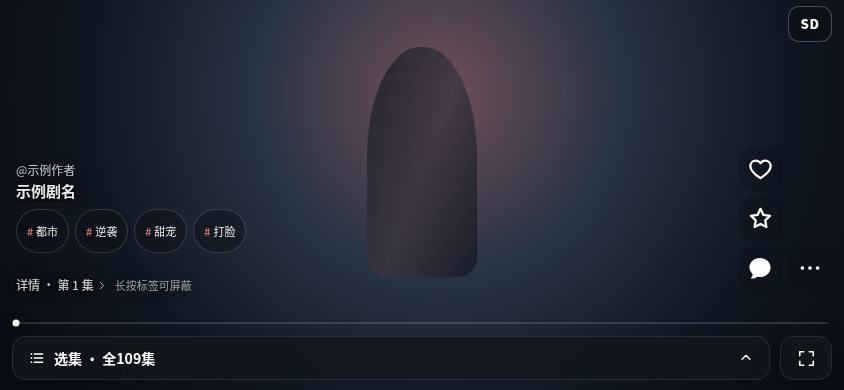
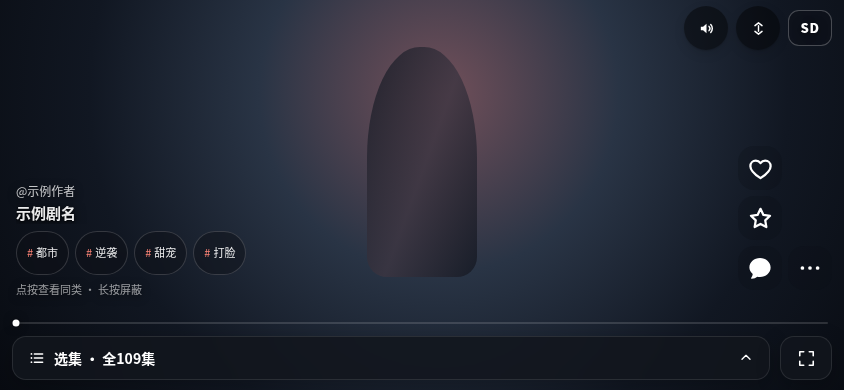
fix: consolidate mobile playback control entry points

diff --git a/src/features/feed/FeedPlayerShellChrome.tsx b/src/features/feed/FeedPlayerShellChrome.tsx
@@ -10,7 +10,7 @@ import type { FeedMeta } from "./useFeedActions";
 import type { FeedPanel } from "./useFeedViewport";
 import { PlaybackSettingsPanel } from "./PlaybackSettingsPanel";
 import {
-  IBoltF, IClose, ICompress, ILockF, IPauseF, IPlayF, IVertSwap,
+  IBoltF, IClose, ICompress, IPauseF, IPlayF, IVertSwap, IVol, IVolMute,
 } from "../../shared/ui/icons";
 
 const VideoDetailsPanel = lazy(() => import("./VideoDetailsPanel"));
@@ -88,7 +88,6 @@ type Props = {
   exitFs: () => void;
   onFollow: () => Promise<void>;
   openTag: (tag: string) => void;
-  openTagMenu: (selected?: string[]) => void;
   closePanels: () => void;
   pushPage: (page: PageInput) => void;
   toast: (msg: string, icon?: Toast["icon"]) => void;
@@ -103,7 +102,7 @@ export function FeedPlayerShellChrome({
   follows, followPending, post, articleHtml, panel, setPanel,
   scrub, barPct, onBarDown, onBarMove, onBarUp,
   pickEp, go, togglePip, lockControls, toggleFull, exitFs,
-  onFollow, openTag, openTagMenu, closePanels, pushPage, toast,
+  onFollow, openTag, closePanels, pushPage, toast,
 }: Omit<Props, "clean">) {
   const liveMeta = { ...meta, like: likeCount, collect: collectCount };
   const landscapeStage = rotated || vpLandscape;
@@ -115,7 +114,7 @@ export function FeedPlayerShellChrome({
   const detailBody = (onClose?: () => void) => (
     <VideoDetailsPanel meta={liveMeta} videoId={curId} episodeCount={episodes.length}
       related={related} following={follows.includes(meta.authorId)} followPending={followPending}
-      onFollow={() => void onFollow()} onTag={openTag} onClose={onClose} onPreferences={() => openTagMenu()}
+      onFollow={() => void onFollow()} onTag={openTag} onClose={onClose}
       onAuthor={() => { if (meta.authorId > 0) { closePanels(); pushPage({ kind: "user", id: meta.authorId, name: meta.author }); } }}
       onRelated={(video, visible) => { closePanels(); pushPage({ kind: "feed", videoIds: visible.map(item => item.id), index: visible.findIndex(item => item.id === video.id), title: "相关推荐" }); }} />
   );
@@ -281,10 +280,6 @@ export function FeedPlayerShellChrome({
               rate={rate} onRate={(value) => { setRate(value); videoRef.current?.rate(value); }}
               preferHevc={preferHevc} onPreferHevc={setPreferHevc}
               portraitFit={portraitFit} onPortraitFit={setPortraitFit}
-              swipeEp={swipeEp} onSwipeEp={setSwipeEp}
-              muted={muted} onMuted={setMuted}
-              onLock={() => { setPanel(null); lockControls(); }}
-              onNotInterested={() => openTagMenu()}
               onClose={() => setPanel(null)} />
           </Sheet>
 
@@ -341,7 +336,8 @@ export function FeedPlayerShellChrome({
 }
 
 export function FeedMobileTopTools({
-  isDesktop, controlsLocked, active, fs, idle, rotated, clean, currentQuality, lockControls,
+  isDesktop, controlsLocked, active, fs, idle, rotated, clean, currentQuality,
+  muted, onToggleMuted, swipeEnabled, swipeEp, onToggleSwipe,
 }: {
   isDesktop: boolean;
   controlsLocked: boolean;
@@ -351,18 +347,31 @@ export function FeedMobileTopTools({
   rotated: boolean;
   clean: boolean;
   currentQuality: "HD" | "SD" | null;
-  lockControls: () => void;
+  muted: boolean;
+  onToggleMuted: () => void;
+  swipeEnabled: boolean;
+  swipeEp: boolean;
+  onToggleSwipe: () => void;
 }) {
-  if (isDesktop || controlsLocked || !active || (fs && idle) || (!fs && (clean || !currentQuality))) return null;
+  if (isDesktop || controlsLocked || !active || (fs && idle) || (!fs && clean)) return null;
+  const chip = fs ? "w-11 h-11" : "w-9 h-9";
   return (
     <div className="feed-mobile-top-tools absolute z-40 flex items-center gap-2"
       style={{
         top: rotated ? 12 : "calc(var(--sat, 0px) + 6px)",
         right: fs ? (rotated ? "calc(var(--sab, 0px) + 68px)" : "calc(var(--sar, 0px) + 68px)") : "calc(var(--sar, 0px) + 12px)",
       }}>
-      {!clean && currentQuality && <span className="feed-current-quality" aria-label={`当前清晰度：${currentQuality === "HD" ? "高清" : "标清"}`}>{currentQuality}</span>}
-      {fs && <Button onClick={lockControls} aria-label="屏幕锁定" title="屏幕锁定"
-        className="hg-chip w-11 h-11 rounded-full flex items-center justify-center pressable elev-1"><ILockF size={17} /></Button>}
+      {!clean && <>
+        <Button onClick={onToggleMuted} aria-label={muted ? "取消静音" : "静音"} aria-pressed={muted}
+          className={`hg-chip ${chip} rounded-full flex items-center justify-center pressable elev-1`}>
+          {muted ? <IVolMute size={17} /> : <IVol size={17} />}
+        </Button>
+        {swipeEnabled && <Button onClick={onToggleSwipe} aria-label={swipeEp ? "关闭上下划切集" : "开启上下划切集"} aria-pressed={swipeEp}
+          className={`hg-chip ${chip} rounded-full flex items-center justify-center pressable elev-1 ${swipeEp ? "is-on" : ""}`}>
+          <IVertSwap size={17} />
+        </Button>}
+        {currentQuality && <span className="feed-current-quality" aria-label={`当前清晰度：${currentQuality === "HD" ? "高清" : "标清"}`}>{currentQuality}</span>}
+      </>}
     </div>
   );
 }

diff --git a/src/styles/video-details.css b/src/styles/video-details.css
@@ -21,17 +21,15 @@
 .video-details-author-link.ios-button { display:flex; align-items:center; gap:10px; flex:1; min-width:120px; min-height:44px; text-align:left; }
 .video-details-follow.ios-button { flex:none; min-height:44px; padding:8px 14px; border-radius:999px; font-size:13px; font-weight:600; }
 .video-details-description { color:var(--p-mut); font-size:13px; line-height:1.8; white-space:pre-wrap; overflow-wrap:anywhere; }
-.video-details-sheet { display:flex; flex-direction:column; height:min(72dvh,680px); min-height:0; }
-.feed-comments-sheet { display:flex; flex-direction:column; height:72dvh; min-height:0; }
+.video-details-sheet { display:flex; flex-direction:column; height:min(72dvh,680px); min-height:0; }.feed-comments-sheet { display:flex; flex-direction:column; height:72dvh; min-height:0; }
 .feed-article-sheet { display:flex; flex-direction:column; height:78dvh; min-height:0; }
 .mobile-video-meta-copy { padding-right:84px; padding-left:16px; }
-.video-detail-preferences.ios-button { min-height:44px; padding:8px 0 8px 8px; font-size:12px; color:var(--p-accent,var(--p-mut)); }
 .mobile-video-author { margin-bottom:3px; color:rgb(255 255 255 / .76); font-size:12px; line-height:1.4; text-shadow:0 2px 8px rgb(0 0 0 / .65); }
 .current-video-tags { display:flex; gap:6px; max-width:100%; margin-top:7px; overflow-x:auto; overscroll-behavior-x:contain; scrollbar-width:none; pointer-events:auto; }
 .current-video-tags::-webkit-scrollbar { display:none; }
 .current-video-tag.ios-button { display:inline-flex; flex:none; align-items:center; gap:3px; min-height:34px; max-width:160px; padding:6px 10px; border:1px solid rgb(255 255 255 / .16); border-radius:999px; background:rgb(12 15 22 / .46); color:rgb(255 255 255 / .92); font-size:11px; line-height:1.3; white-space:nowrap; overflow:hidden; text-overflow:ellipsis; backdrop-filter:blur(10px); }
 .current-video-tag>span { color:var(--p-accent,#a8c7fa); }
-.current-video-tags-hint { color:rgb(255 255 255 / .58); font-size:11px; white-space:nowrap; text-shadow:0 2px 8px rgb(0 0 0 / .65); }
+.current-video-tags-hint { display:block; margin-top:6px; color:rgb(255 255 255 / .58); font-size:11px; white-space:nowrap; text-shadow:0 2px 8px rgb(0 0 0 / .65); }
 .mobile-video-action-rail { --mobile-action-rail-clearance:108px; }
 .mobile-video-action-rail>.ios-button { min-width:48px; min-height:48px; }
 .mobile-playback-dock { display:flex; align-items:center; gap:10px; margin:12px calc(var(--sar,0px) + 12px) 0 calc(var(--sal,0px) + 12px); pointer-events:auto; }
@@ -40,18 +38,17 @@
 .mobile-playback-episodes>span { flex:1; min-width:0; overflow:hidden; text-align:left; text-overflow:ellipsis; white-space:nowrap; }
 .mobile-playback-fullscreen.ios-button { flex:none; width:52px; padding:0; display:grid; place-items:center; }
 .feed-current-quality { display:inline-flex; align-items:center; justify-content:center; min-width:44px; height:36px; padding:0 10px; border:1px solid rgb(255 255 255 / .24); border-radius:11px; background:rgb(12 15 22 / .48); color:#fff; font-size:13px; font-weight:800; letter-spacing:.04em; text-shadow:0 2px 8px rgb(0 0 0 / .65); backdrop-filter:blur(12px); }
-.playback-settings-sheet { display:flex; flex-direction:column; height:min(600px,78dvh); min-height:0; }
+.feed-mobile-top-tools .is-on { color:#f5c451; }
+.playback-settings-sheet { display:flex; flex-direction:column; height:auto; max-height:min(520px,72dvh); min-height:0; }
 .playback-settings-header { display:flex; flex:none; align-items:center; justify-content:space-between; gap:16px; padding:10px 18px 12px; }
 .playback-settings-header h2 { margin:0; font-size:18px; font-weight:700; }
 .playback-settings-header p { margin:4px 0 0; color:var(--p-mut); font-size:12px; }
-.playback-settings-list { flex:1; min-height:0; overflow-y:auto; overscroll-behavior:contain; padding:0 16px max(16px,var(--native-sab,0px)); }
+.playback-settings-list { flex:0 1 auto; min-height:0; overflow-y:auto; overscroll-behavior:contain; padding:0 16px max(16px,var(--native-sab,0px)); }
 .playback-settings-group { flex:none; margin-bottom:14px; }
 .playback-settings-group>.playback-setting-row { min-height:66px; padding:12px 16px; gap:12px; border:0; }
 .playback-setting-rate-row { flex-wrap:wrap; }
 .playback-setting-rates { width:100%; margin-top:2px; }
 .playback-setting-size { flex:none; width:152px; }
-.playback-setting-action.ios-button { width:100%; color:var(--p-on); background:transparent; text-align:left; }
-.playback-setting-action>svg { flex:none; color:var(--p-mut); }
 @keyframes playback-settings-drawer-in { from { opacity:0; transform:translateX(32px); } to { opacity:1; transform:none; } }
 @media(max-height:560px),(orientation:landscape) and (max-height:680px) {
   .video-details-sheet,.feed-comments-sheet,.feed-article-sheet { height:calc(100dvh - 72px); }

diff --git a/src/features/feed/PlaybackSettingsPanel.tsx b/src/features/feed/PlaybackSettingsPanel.tsx
@@ -1,25 +1,16 @@
 import { Button, SegmentedControl, Surface } from "../../shared/ui/ios/controls";
 import { Toggle } from "../../shared/ui/ui";
-import {
-  IBoltF, IChevR, IClock, IClose, IExpand, IEyeOff, ILockF, IVertSwap, IVolMute,
-} from "../../shared/ui/icons";
+import { IBoltF, IClock, IClose, IExpand } from "../../shared/ui/icons";
 
 const RATES = [0.5, 0.75, 1, 1.25, 1.5, 2];
 
-export function PlaybackSettingsPanel({ rate, onRate, preferHevc, onPreferHevc, portraitFit, onPortraitFit,
-  swipeEp, onSwipeEp, muted, onMuted, onLock, onNotInterested, onClose }: {
+export function PlaybackSettingsPanel({ rate, onRate, preferHevc, onPreferHevc, portraitFit, onPortraitFit, onClose }: {
   rate: number;
   onRate: (rate: number) => void;
   preferHevc: boolean;
   onPreferHevc: (on: boolean) => void;
   portraitFit: "contain" | "cover";
   onPortraitFit: (fit: "contain" | "cover") => void;
-  swipeEp: boolean;
-  onSwipeEp: (on: boolean) => void;
-  muted: boolean;
-  onMuted: (on: boolean) => void;
-  onLock: () => void;
-  onNotInterested: () => void;
   onClose: () => void;
 }) {
   return <div className="playback-settings-sheet">
@@ -58,40 +49,6 @@ export function PlaybackSettingsPanel({ rate, onRate, preferHevc, onPreferHevc, 
             {RATES.map(value => <Button key={value} aria-pressed={rate === value} aria-label={`倍速 ${value} 倍`} onClick={() => onRate(value)}>{value}×</Button>)}
           </SegmentedControl>
         </div>
-        <div className="ios-settings-row playback-setting-row">
-          <span className="ios-setting-icon"><IVertSwap size={16} /></span>
-          <div className="flex-1 min-w-0">
-            <div className="text-[14px] text-on">上下划切集</div>
-            <div className="text-[12px] text-mut">开启后，上下滑动切换当前剧集</div>
-          </div>
-          <Toggle desktop on={swipeEp} onChange={onSwipeEp} label="上下划切集" />
-        </div>
-        <div className="ios-settings-row playback-setting-row">
-          <span className="ios-setting-icon"><IVolMute size={16} /></span>
-          <div className="flex-1 min-w-0">
-            <div className="text-[14px] text-on">静音</div>
-            <div className="text-[12px] text-mut">关闭当前视频的声音</div>
-          </div>
-          <Toggle desktop on={muted} onChange={onMuted} label="静音" />
-        </div>
-      </Surface>
-      <Surface className="ios-setting-group playback-settings-group playback-settings-actions">
-        <Button className="ios-settings-row playback-setting-row playback-setting-action" onClick={onLock}>
-          <span className="ios-setting-icon"><ILockF size={16} /></span>
-          <div className="flex-1 min-w-0">
-            <div className="text-[14px] text-on">屏幕锁定</div>
-            <div className="text-[12px] text-mut">隐藏屏幕操作按钮，避免误触</div>
-          </div>
-          <IChevR size={15} className="text-mut" />
-        </Button>
-        <Button className="ios-settings-row playback-setting-row playback-setting-action" onClick={onNotInterested}>
-          <span className="ios-setting-icon"><IEyeOff size={16} /></span>
-          <div className="flex-1 min-w-0">
-            <div className="text-[14px] text-on">不感兴趣</div>
-            <div className="text-[12px] text-mut">选择并屏蔽当前视频的标签</div>
-          </div>
-          <IChevR size={15} className="text-mut" />
-        </Button>
       </Surface>
     </div>
   </div>;

diff --git a/src/features/feed/Feed.tsx b/src/features/feed/Feed.tsx
@@ -157,6 +157,7 @@ export default function Feed({
   const openPreferences = () => { closePanels(); store.push({ kind: "settings", section: "内容偏好" }); };
   const openTagMenu = (selected: string[] = []) => { setTagSelection(selected); setPanel(null); setTagMenu(true); };
   const openTag = (tag: string) => { closePanels(); store.push({ kind: "tag", tag, name: tag }); };
+  const lockControls = () => { setPanel(null); setControlsLocked(true); };
 
   useEffect(() => { setTagMenu(false); setTagSelection([]); }, [curId, store.lineEpoch, accountScope]);
   useEffect(() => {
@@ -309,7 +310,7 @@ export default function Feed({
     boxRef, videoRef, pinchRef, playbackClock, isDesktop, active, controlsLocked, showHoldGuide,
     rotated, fs, clean, setClean, idle, setIdle, arm, wake, swipeEp, kind, curId, epMap, setEpMap,
     episodesLength: episodes.length, effectiveLength: effectiveVideoIds.length, go,
-    duration, playUrl, playKey, openTagMenu, setPanel, setTagMenu, toast,
+    duration, playUrl, playKey, lockControls, setPanel, setTagMenu, toast,
   });
   useEffect(() => { setBarScrubbing(barPct !== null || scrub !== null); }, [barPct, scrub]);
 
@@ -535,7 +536,6 @@ export default function Feed({
     return registerOverlayBack(() => { setPanel(null); return true; });
   }, [active, panel]);
 
-  const lockControls = () => { setPanel(null); setControlsLocked(true); };
   const pickEp = (ep: number) => {
     setEpMap((m) => ({ ...m, [curId]: ep }));
     setPanel(null);
@@ -694,14 +694,20 @@ export default function Feed({
           post={post} articleHtml={articleHtml} panel={panel} setPanel={setPanel}
           scrub={scrub} barPct={barPct} onBarDown={onBarDown} onBarMove={onBarMove} onBarUp={onBarUp}
           pickEp={pickEp} go={go} togglePip={togglePip} lockControls={lockControls} toggleFull={toggleFull} exitFs={exitFs}
-          onFollow={onFollow} openTag={openTag} openTagMenu={openTagMenu} closePanels={closePanels} pushPage={store.push} toast={toast}
+          onFollow={onFollow} openTag={openTag} closePanels={closePanels} pushPage={store.push} toast={toast}
         />
       </div>
 
       <FeedMobileTopTools
         isDesktop={isDesktop} controlsLocked={controlsLocked} active={active} fs={fs} idle={idle}
         rotated={rotated} clean={clean} currentQuality={playUrl ? (preferHevc && hevcUrl && playUrl === hevcUrl ? "HD" : "SD") : null}
-        lockControls={lockControls}
+        muted={muted} onToggleMuted={() => setMuted(value => !value)}
+        swipeEnabled={kind === "video" && episodes.length > 1} swipeEp={swipeEp}
+        onToggleSwipe={() => {
+          const next = !swipeEp;
+          setSwipeEp(next);
+          toast(next ? "上下划切集已开启" : "上下划切集已关闭", "info");
+        }}
       />
       <TagBlockMenu open={active && tagMenu} tags={meta.tags} initialSelected={tagSelection} onClose={() => setTagMenu(false)} onSettings={openPreferences} />
       {!isDesktop && <MobileHoldGuide open={showHoldGuide} onClose={holdGuide.dismiss} target={holdTargetRef} bottomInset={bottomInset} />}

diff --git a/src/features/feed/FeedItemChrome.tsx b/src/features/feed/FeedItemChrome.tsx
@@ -274,19 +274,11 @@ export default function FeedItemChrome({
                 {!!meta.author && <div className="mobile-video-author">@{meta.author}</div>}
                 <p className="text-[15px] font-semibold leading-snug hg-ink-2 hg-ov-shadow-strong clamp-2">{meta.title}</p>
                 <CurrentVideoTags tags={meta.tags} onOpen={openTag} onBlock={tag => openTagMenu([tag])} />
+                {meta.tags.length > 0 && <div className="current-video-tags-hint">点按查看同类 · 长按屏蔽</div>}
               </div>
             </div>
           )}
           <div className="relative pt-1.5 pb-2.5">
-            {!clean && (
-              <div className={`mobile-video-meta-copy flex flex-wrap items-center gap-2 transition-opacity duration-150 ${scrubbing ? "opacity-35" : ""}`}>
-                <Button aria-label="视频详情" onClick={() => setPanel("detail")}
-                  className="min-h-11 flex items-center gap-0.5 text-[12px] font-medium hg-ink-3 hg-ov-shadow-strong pressable pointer-events-auto">
-                  {kind === "post" ? "图文详情" : `详情 · 第 ${curEp} 集`}<IChevR size={11} />
-                </Button>
-                {meta.tags.length > 0 && <span className="current-video-tags-hint">长按标签可屏蔽</span>}
-              </div>
-            )}
             {isActive && <div ref={barRef} data-seek-bar data-scrubbing={scrubbing || undefined}
               className="-mt-0.5 -mb-2.5 relative pointer-events-auto"
               style={{
@@ -328,8 +320,10 @@ export default function FeedItemChrome({
               )}
             </div>}
             {!clean && <div className="mobile-playback-dock">
-              {kind === "video" && <Button aria-label={episodes.length ? `选集，共 ${episodes.length} 集` : "选集"} onClick={() => setPanel("episodes")} className="mobile-playback-episodes">
+              {kind === "video" ? <Button aria-label={episodes.length ? `选集，共 ${episodes.length} 集` : "选集"} onClick={() => setPanel("episodes")} className="mobile-playback-episodes">
                 <IList size={18} /><span>选集{episodes.length > 0 ? ` · 全${episodes.length}集` : ""}</span><IChevronUp size={16} />
+              </Button> : <Button aria-label="图文详情" onClick={() => setPanel("detail")} className="mobile-playback-episodes">
+                <IFileText size={18} /><span>图文详情</span><IChevronUp size={16} />
               </Button>}
               <Button aria-label="全屏" onClick={() => enterFs(landscapeVideo)} className="mobile-playback-fullscreen"><IExpand size={19} /></Button>
             </div>}

diff --git a/tests/home-controls.tsx b/tests/home-controls.tsx
@@ -35,7 +35,6 @@ function Probe() {
   const [muted, setMuted] = useState(true);
   const [openedTag, setOpenedTag] = useState("");
   const [fullscreen, setFullscreen] = useState<boolean | null>(null);
-  const [locked, setLocked] = useState(false);
   const openTagMenu = (selected: string[] = []) => {
     setTagSelection(selected);
     setPanel(null);
@@ -52,7 +51,6 @@ function Probe() {
         muted: () => muted,
         openedTag: () => openedTag,
         fullscreen: () => fullscreen,
-        locked: () => locked,
         tagSelection: () => tagSelection,
       },
     });
@@ -75,15 +73,13 @@ function Probe() {
     />
     <FeedMobileTopTools
       isDesktop={false} controlsLocked={false} active fs={false} idle={false} rotated={false} clean={false}
-      currentQuality={preferHevc ? "HD" : "SD"} lockControls={() => setLocked(true)}
+      currentQuality={preferHevc ? "HD" : "SD"} muted={muted} onToggleMuted={() => setMuted(value => !value)}
+      swipeEnabled swipeEp={swipeEp} onToggleSwipe={() => setSwipeEp(value => !value)}
     />
     <Sheet open={panel === "more"} label="播放设置" z="playback-settings-overlay" onClose={() => setPanel(null)}>
       <PlaybackSettingsPanel
         rate={rate} onRate={setRate} preferHevc={preferHevc} onPreferHevc={setPreferHevc}
-        portraitFit={portraitFit} onPortraitFit={setPortraitFit}
-        swipeEp={swipeEp} onSwipeEp={setSwipeEp} muted={muted} onMuted={setMuted}
-        onLock={() => { setLocked(true); setPanel(null); }}
-        onNotInterested={() => openTagMenu()} onClose={() => setPanel(null)}
+        portraitFit={portraitFit} onPortraitFit={setPortraitFit} onClose={() => setPanel(null)}
       />
     </Sheet>
     <TagBlockMenu open={tagMenu} tags={meta.tags} initialSelected={tagSelection} onClose={() => setTagMenu(false)} />

diff --git a/src/features/feed/useFeedTouchGestures.ts b/src/features/feed/useFeedTouchGestures.ts
@@ -32,7 +32,7 @@ type Args = {
   duration: number;
   playUrl: string;
   playKey: string;
-  openTagMenu: () => void;
+  lockControls: () => void;
   setPanel: Dispatch<SetStateAction<FeedPanel>>;
   setTagMenu: Dispatch<SetStateAction<boolean>>;
   toast: (msg: string, icon?: Toast["icon"], tag?: string) => void;
@@ -41,7 +41,7 @@ type Args = {
 export function useFeedTouchGestures({
   boxRef, videoRef, pinchRef, playbackClock, isDesktop, active, controlsLocked, showHoldGuide,
   rotated, fs, clean, setClean, idle, setIdle, arm, wake, swipeEp, kind, curId, epMap, setEpMap,
-  episodesLength, effectiveLength, go, duration, playUrl, playKey, openTagMenu, setPanel, setTagMenu, toast,
+  episodesLength, effectiveLength, go, duration, playUrl, playKey, lockControls, setPanel, setTagMenu, toast,
 }: Args) {
   const [holdSpeed, setHoldSpeed] = useState(0);
   const [holdSlow, setHoldSlow] = useState(false);
@@ -134,7 +134,7 @@ export function useFeedTouchGestures({
         cur.mode = "hold";
         if (cur.zone === "menu") {
           holdRef.current = false;
-          openTagMenu();
+          lockControls();
         } else {
           holdRef.current = true;
           if (cur.zone === "slow") setHoldSlow(true);
@@ -167,7 +167,7 @@ export function useFeedTouchGestures({
     if (!g || isDesktop) return;
     const dx = point.x - g.x, dy = point.y - g.y;
 
-    /* 长按中：加速区左右滑换挡；移入顶部胶囊才 armed，减速/不感兴趣区不锁 */
+    /* 长按中：加速区左右滑换挡；移入顶部胶囊才 armed，减速/锁定区不锁 */
     if (g.mode === "hold") {
       if (g.zone !== "fast") return;
       const step = g.speed && shiftHoldSpeed(g.speed, point.x); if (step) setHoldSpeed(step);

diff --git a/src/features/feed/VideoDetailsPanel.tsx b/src/features/feed/VideoDetailsPanel.tsx
@@ -15,10 +15,10 @@ type VideoMeta = {
 
 /** One details body for the mobile sheet and desktop dock. */
 export default function VideoDetailsPanel({ meta, videoId, episodeCount, related, following, followPending,
-  onFollow, onTag, onAuthor, onRelated, onClose, onPreferences }: {
+  onFollow, onTag, onAuthor, onRelated, onClose }: {
   meta: VideoMeta; videoId: number; episodeCount: number; related: VideoCard[];
   following: boolean; followPending: boolean; onFollow: () => void; onTag: (tag: string) => void;
-  onAuthor: () => void; onRelated: (video: VideoCard, visible: VideoCard[]) => void; onClose?: () => void; onPreferences: () => void;
+  onAuthor: () => void; onRelated: (video: VideoCard, visible: VideoCard[]) => void; onClose?: () => void;
 }) {
   return <div className="video-details-panel" data-video-details>
     {onClose && <div className="video-details-heading">
@@ -39,9 +39,7 @@ export default function VideoDetailsPanel({ meta, videoId, episodeCount, related
       </div>
 
       <section className="video-details-section" aria-label="标签导航">
-        <div className="video-details-section-heading"><h3>标签 · 点击查看同类</h3>
-          <Button className="video-detail-preferences" onClick={onPreferences}>调整内容偏好</Button>
-        </div>
+        <div className="video-details-section-heading"><h3>标签 · 点击查看同类 · 长按屏蔽</h3></div>
         <ContentTags tags={meta.tags} onOpen={onTag} />
       </section>
 

diff --git a/src/features/feed/MobileHoldGuide.tsx b/src/features/feed/MobileHoldGuide.tsx
@@ -100,11 +100,11 @@ function GuideContent({ target, bottomInset, onClose }: Omit<Props, "open">) {
       </div>
       <div className="mobile-hold-guide-zone is-menu" data-hold-guide-menu style={{ ...point(.5, .5), width: bounds.size, height: bounds.size }}>
         <span className="mobile-hold-guide-dot" aria-hidden="true" />
-        <strong>不感兴趣</strong><span>只在此处长按</span>
+        <strong>锁定控件</strong><span>只在此处长按</span>
       </div>
     </>}
     <div className="mobile-hold-guide-footer">
-      <p>长按加速 · 左右滑换挡 · 移入顶部标签锁定</p>
+      <p>长按加速 · 左右滑换挡 · 长按中心锁定控件</p>
       <p>双击暂停播放</p>
       <Button className="mobile-hold-guide-done" onClick={onClose} data-autofocus>知道了</Button>
     </div>
